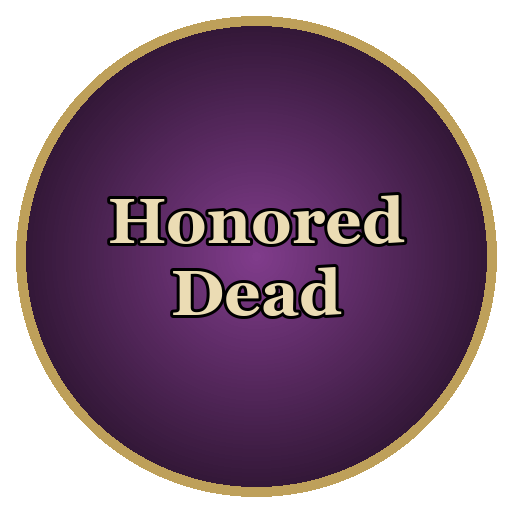
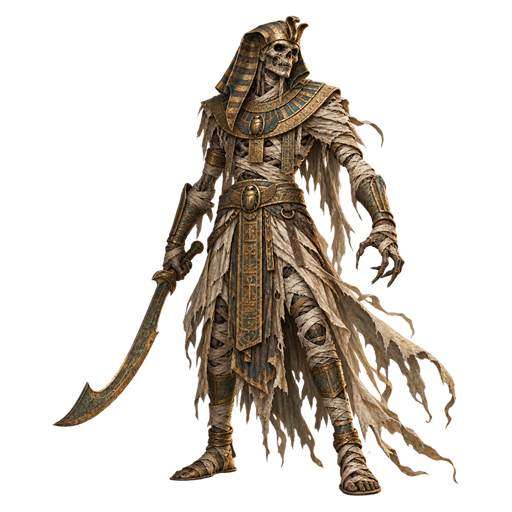
Add artwork for 26 expansion monsters

diff --git a/output/imagegen/expansion-monster-prompts.md b/output/imagegen/expansion-monster-prompts.md
@@ -1,0 +1,121 @@
+# Expansion monster artwork
+
+Generated with the built-in image_gen tool. Each new placeholder receives a separate transparent full-body sprite, installed under its existing game filename.
+
+Final game assets are 512 x 512 RGBA PNGs in `assets/monster/`. Generated images are proportionally downsampled into a 492 x 492 area centered on the transparent canvas, retaining the generated alpha and adding a small safety margin. The original generation files remain in the image tool's output directory. `expansion-monsters-preview.png` is a labeled overview of the final game exports.
+
+Validation: all 26 exports match the newly added monster filenames and pass size, RGBA, transparent-border, and nonempty-artwork checks. The existing `:desktop:previewMonsterSheet` task passed for all 72 bundled monsters, including label bounds, health tokens, rule reattachment, scrolling, and reuse. The complete export contact sheet and representative production card screenshots were visually inspected.
+
+## Shared prompt
+
+Use case: stylized-concept. Asset type: Ancient Terror dark cosmic-horror board-game monster sprite. Create a NEW original illustration. Style: detailed realistic painterly fantasy bestiary cutout, tactile weathered skin, fur and fabric, muted charcoal, dusty ochre and desaturated olive colors, warm directional highlights and cool deep shadows. Clear readable silhouette at small token size, menacing restrained horror. Composition: square 1024x1024, centered FULL BODY three-quarter view, occupy about 82 percent of canvas with at least 7 percent transparent margin on EVERY edge. Every horn, finger, wing and tail must fit entirely inside the image. Background: actual transparent alpha including negative spaces between limbs. No environment, floor, cast shadow, scenery, base, badge, circular token, frame, text, letters, logo, watermark or checkerboard. Subject: 
+
+## Per-monster subject prompts
+
+### ChildOfTheGoat.png
+
+One adult-sized grotesque goat-like cosmic abomination: a hunched shaggy charcoal body, cloven hind hooves, long clawed forelimbs, a narrow goat skull-like face with curled horns, and a few sinewy tendrils emerging from its shoulders. Diseased bark-like hide and matted fur, dark ochre eyes. Distinct from a normal goat, no human child.
+
+### CrawlingOne.png
+
+One humanoid silhouette composed entirely of a dense crawling swarm of pale grubs and dark earthworms, wearing a tattered brown hooded overcoat. The hood frames a hollow suggestion of a face made of worms; two worm-composed hands reach forward, the base separates into two legs and scattered attached writhing strands. No gore.
+
+### CrazedMob.png
+
+A compact group of FIVE distinct frenzied adult townspeople in worn 1920s shirts, waistcoats, skirts and coats, arranged in a tight readable triangular crowd, faces twisted with supernatural rage. One raised wooden club and one pitchfork, other empty clenched hands. Muted brown and gray clothing. Entire group isolated, all feet visible.
+
+### DeepOneHybrid.png
+
+One unsettling adult male coastal fisherman midway through transformation into an amphibious humanoid. Bulging yellow eyes, flattened fishlike face, gill slits, patchy slate-green scales, webbed clawed hands, hunched human proportions. Worn 1920s fisherman's coat, trousers and boots, no hat; full body stalking pose.
+
+### Dhole.png
+
+One colossal blind burrowing worm presented as a compact full-body coiled creature. Thick leathery ochre-gray annulated body, blunt head raised with a circular tooth-lined maw surrounded by fleshy sensory tendrils, tapering tail coiling into the base. Immense weight, cracked earth-like hide, no human face or limbs.
+
+### DimensionalShambler.png
+
+One gangly ape-like extradimensional predator with a low narrow head, recessed dull eyes, leathery gray hide, hunched broad shoulders, extremely long muscular forearms ending in hooked claws, short bowed hind legs. Loose folds of skin, strange asymmetrical facial ridges, coherent two-arm two-leg anatomy.
+
+### FireVampire.png
+
+One living predatory knot of crimson and amber fire, an elongated spiraling core forming a sinister half-suggested face and curling flame tendrils. Entity itself made of textured fire and dark ember filaments; strong compact readable silhouette, restrained red-orange light, isolated alpha around individual flames, no smoke cloud or background glow.
+
+### Firebug.png
+
+One sinister adult human arsonist in a ragged 1920s brown long coat and worn trousers, face pale and feverish, clutching a battered metal fuel can in one hand and a burning rag torch in the other. Crouched prowling stance, grime and soot, modest orange flame as the only bright accent.
+
+### FlyingPolyp.png
+
+One floating alien polyp: irregular tapering tubular fleshy body with pocked leathery gray-green skin, several uneven fleshy lobes and long curling tentacles, asymmetrical slit-like sensory pits. Wingless, no humanoid face or skeleton, partly twisted vertical floating pose, compact readable silhouette.
+
+### FormlessSpawn.png
+
+One amorphous glossy black tar-like creature rearing up from a low spreading mass. Its central neck thrusts forward into a gaping irregular mouth; several uneven pseudopods form hooked temporary limbs and curling appendages. Wet charcoal folds and restrained olive highlights, no eyes, no humanoid anatomy.
+
+### Ghast.png
+
+One lean subterranean humanoid beast, hairless pale ochre hide, broad flattened noseless face with tiny dark eyes and long teeth, hunched muscular torso, long clawed arms, disproportionately powerful backward-bent hopping hind legs. Animalistic crouch, leathery skin, no clothes.
+
+### GiantPenguin.png
+
+One enormous blind albino cave penguin, full body three-quarter view, tall heavy pear-shaped torso, dingy ivory and ash-gray feathers, vestigial milky eyes, long weathered pale beak, slightly outstretched flippers and broad scaly feet. Unsettling ancient animal, realistic anatomy, no cute or cartoon expression.
+
+### HonoredDead.png
+
+One ancient skeletal guardian mummy, gaunt exposed skull-like face, weathered linen wrappings and remnants of tarnished bronze Egyptian burial armor, faded ceremonial collar, carrying a short ancient curved sword at its side. Upright dignified threatening stance, entire body and weapon visible, no pedestal.
+
+### HuntingByakhee.png
+
+One lean aerial predator combining bat, carrion bird and insect features: narrow snarling head, long hooked beaklike jaws with teeth, shaggy sinewy torso, two ragged leathery bat wings, two grasping clawed forelimbs and two taloned hind legs. Dark umber and olive weathered hide, compact descending hunting pose, all wing tips visible.
+
+### HuntingHorror.png
+
+One huge black serpentine predator with a single elongated reptilian head, needle teeth, an extremely long coiled tapering body and exactly two broad ragged membranous bat wings attached behind the neck. No arms or legs. Charcoal and dark olive scales, dynamic upright S-shaped flight pose, all wings and tail contained.
+
+### Jiangshi.png
+
+One reanimated adult corpse wearing a weathered dark indigo Qing-era official robe and round black cap, pale gray-green rigid face, small paper talisman attached to forehead with indistinct nonlegible ink marks. Both arms outstretched forward, clawlike fingers, both feet visible in stiff hopping pose. Dignified eerie horror, no caricature.
+
+### MoonBeast.png
+
+One bulky hairless pale gray toad-like alien, blind and eyeless with a cluster of short pinkish sensory tentacles replacing its face. Broad squat torso, long powerful clawed arms and bent short legs, mottled fleshy folds. Crouched three-quarter pose, no clothes, weapons or scenery.
+
+### Poltergeist.png
+
+One violent spectral entity, a ragged translucent gray-green humanoid apparition with a hollow screaming face, elongated reaching hands and lower body dissolving into curling spectral ribbons. A few small broken wooden splinters orbit close to its silhouette. Subtle translucent body with true alpha outside, no opaque fog rectangle.
+
+### ProtoShoggoth.png
+
+One squat primordial mound of black-green protoplasm, smaller and less massive than a shoggoth, studded with a sparse scattering of amber eyes and two irregular toothy mouths, thick blunt pseudopods pulling it forward. Viscous ridged surface and organic folds, compact asymmetric silhouette, no humanoid form.
+
+### RatThing.png
+
+One large hunched rat-like nightmare with matted brown-gray fur, a disturbing subtly humanlike adult face blending into a rodent muzzle, small sharp teeth, long delicate clawed forepaws, strong haunches and one long naked curling tail. Menacing feral crouch, no clothes, whole tail visible.
+
+### SandDweller.png
+
+One lean desert-dwelling alien humanoid with rough sand-colored leathery skin, bulbous bald head, disproportionately large dark eyes, narrow mouth, long thin clawed arms and bent muscular legs. Angular bony ridges and coarse grainy hide, hunched stalking posture, no clothing or props.
+
+### Shan.png
+
+One sinister alien insect approximately scarab-shaped: dark iridescent charcoal chitin, ridged bulbous carapace, small many-faceted eyes, six thin jointed limbs with hooked ends, delicate folded veined wings partly lifted, short writhing sensory proboscis. Three-quarter frontal view readable as a complete isolated creature, restrained antique bronze-green highlights.
+
+### SpawnOfSebak.png
+
+One massive crocodilian humanoid abomination, long crocodile jaws full of uneven ivory teeth, heavy olive armored scales, thick powerful torso, two muscular clawed arms, two squat reptilian legs, a single long heavy tail curling beside the feet. Ancient menacing predatory stance, no armor or clothing.
+
+### TchoTcho.png
+
+One fictional adult occult humanoid, small wiry build, eerie ashen gray skin with subtle nonhuman texture, bald head, sharp angular inhuman features and luminous pale eyes. Ragged dark earth-brown ritual tunic and wraps, clutching a small chipped stone dagger low at its side. No resemblance to any real ethnic group, no ethnic caricature. Cunning low crouch.
+
+### YoungCthonian.png
+
+One young burrowing chthonian: thick dark gray annulated worm body coiled into a compact low base, bulbous front end lifted with a cluster of six long writhing octopus-like feeding tentacles concealing the mouth. No eyes, legs or wings. Rough leathery hide, earthy highlights, every tentacle and tapering tail contained.
+
+### Zoog.png
+
+One small wiry woodland predator, brown-gray fur, rodent-like body, large alert dark eyes, short facial tentacles around a small sharp-toothed mouth, grasping clawed forepaws and hind feet, a long thin curling prehensile tail. Crouched sly pose, unsettling realistic animal rather than cute mascot. Entire tail visible.
+
+## Crawling One full prompt override
+
+Use case: stylized-concept. Create a NEW Ancient Terror cosmic-horror board-game monster sprite of a CRAWLING ONE: one full-body humanoid silhouette composed entirely of dense writhing pale grubs and dark earthworms, wearing a tattered brown hooded overcoat. Hood frames a hollow suggestion of a face made of worms; two worm-composed hands reach forward; base separates into two legs and close attached strands. Detailed realistic painterly fantasy bestiary cutout, tactile weathered cloth and organic textures, muted charcoal and dusty ochre, warm directional highlights, deep cool shadows, crisp silhouette readable at small token size, no gore. Square 1024x1024 transparent RGBA PNG, complete body centered at 82 percent canvas size with at least 7 percent clear margin on EVERY edge. True alpha in all empty space. No environment, floor, shadow, scenery, badge, token border, text, watermark or checkerboard.
